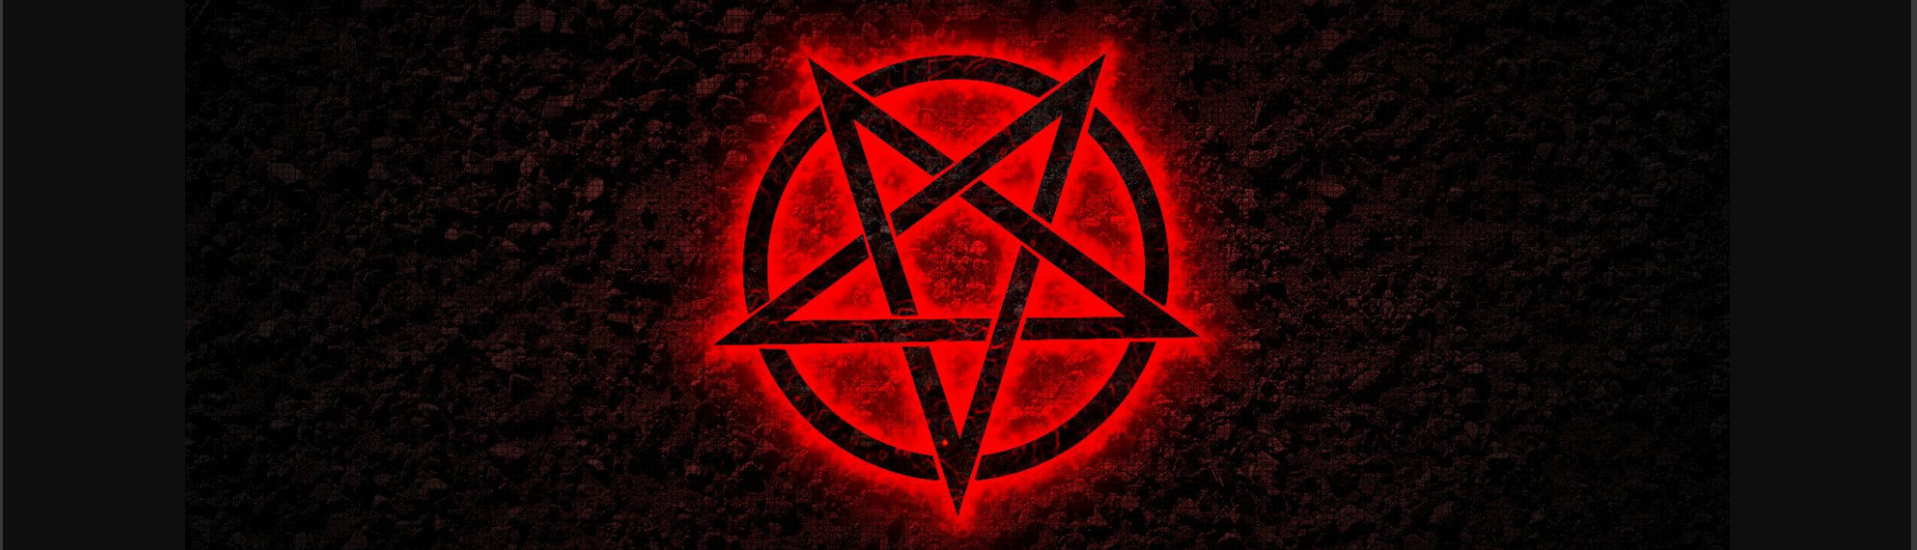
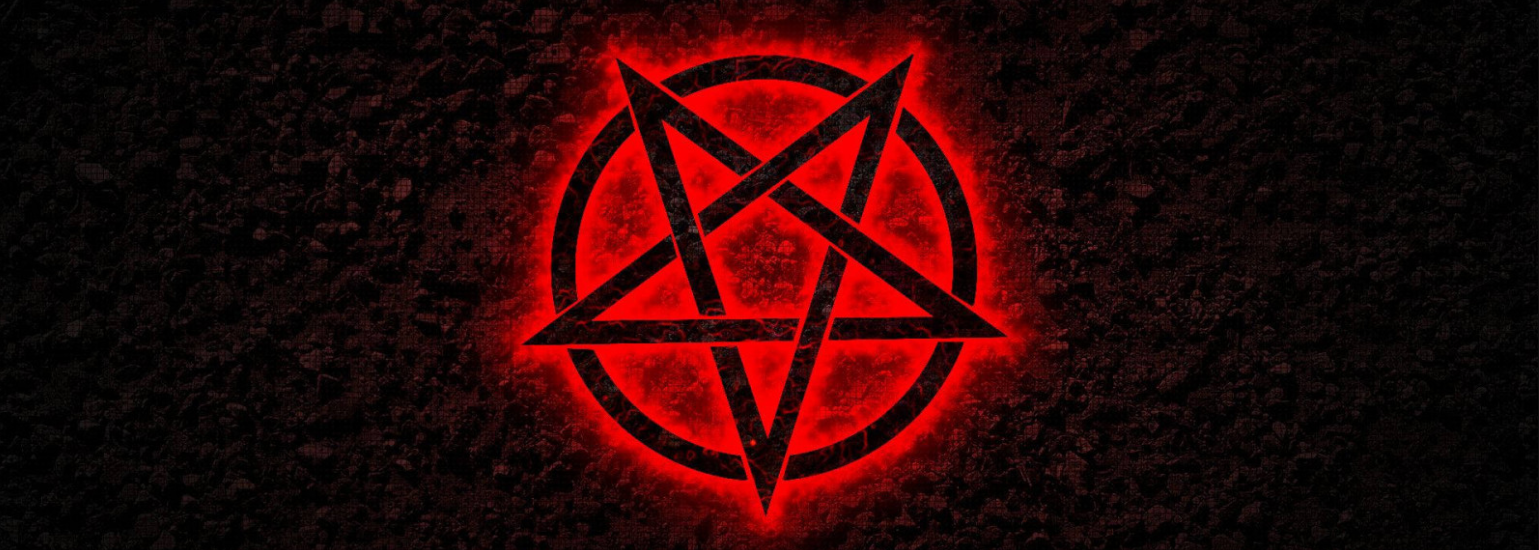
otra prueba

diff --git a/sustito.html b/sustito.html
@@ -8,6 +8,7 @@
 </head>
 <body>
     <header>
+        <img src="susto/Pentagrama.png" alt="banner de la página">
         <h1>Bienvenido a tu pinche pesadilla Juan Pablo</h1>
     </header>
     <main>

diff --git a/styles.css b/styles.css
@@ -5,7 +5,11 @@ body {
     margin: 0;
     padding: 0;
 }
-
+header img {
+    max-width: 100%;
+height: auto;
+display: block;
+}
 header {
     background-color: #000000;
     color: #ff0000;
